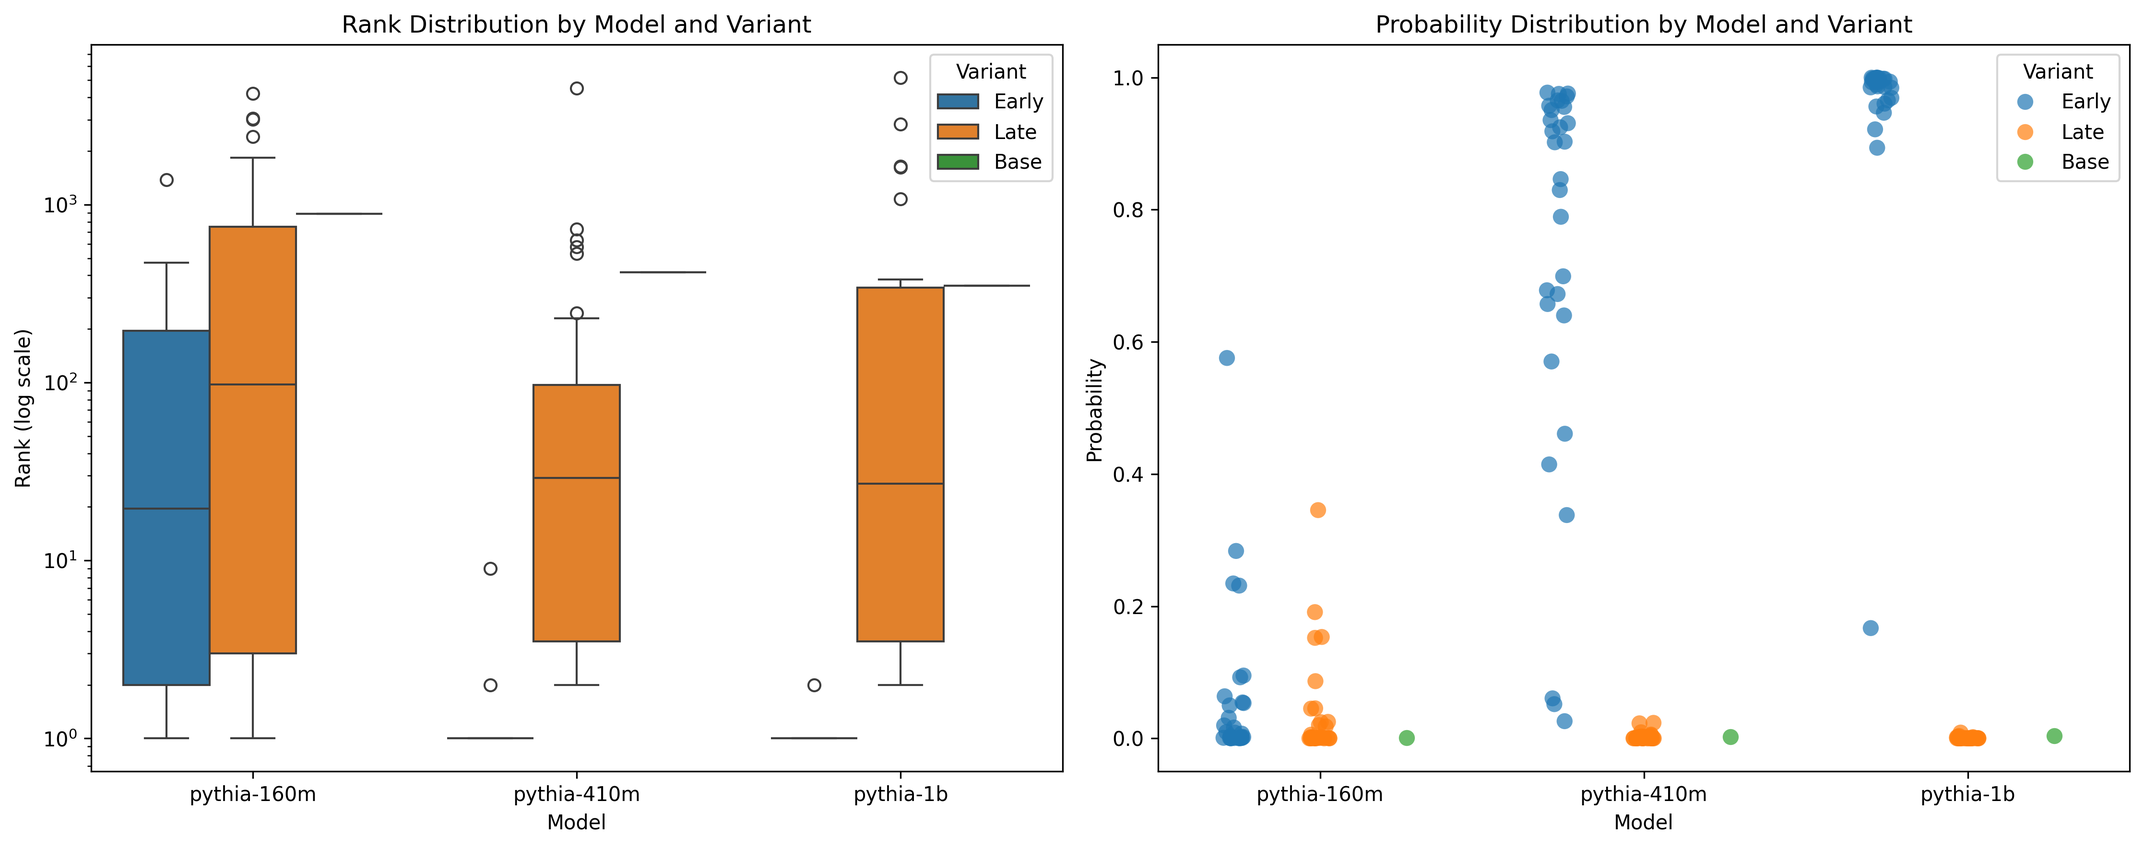
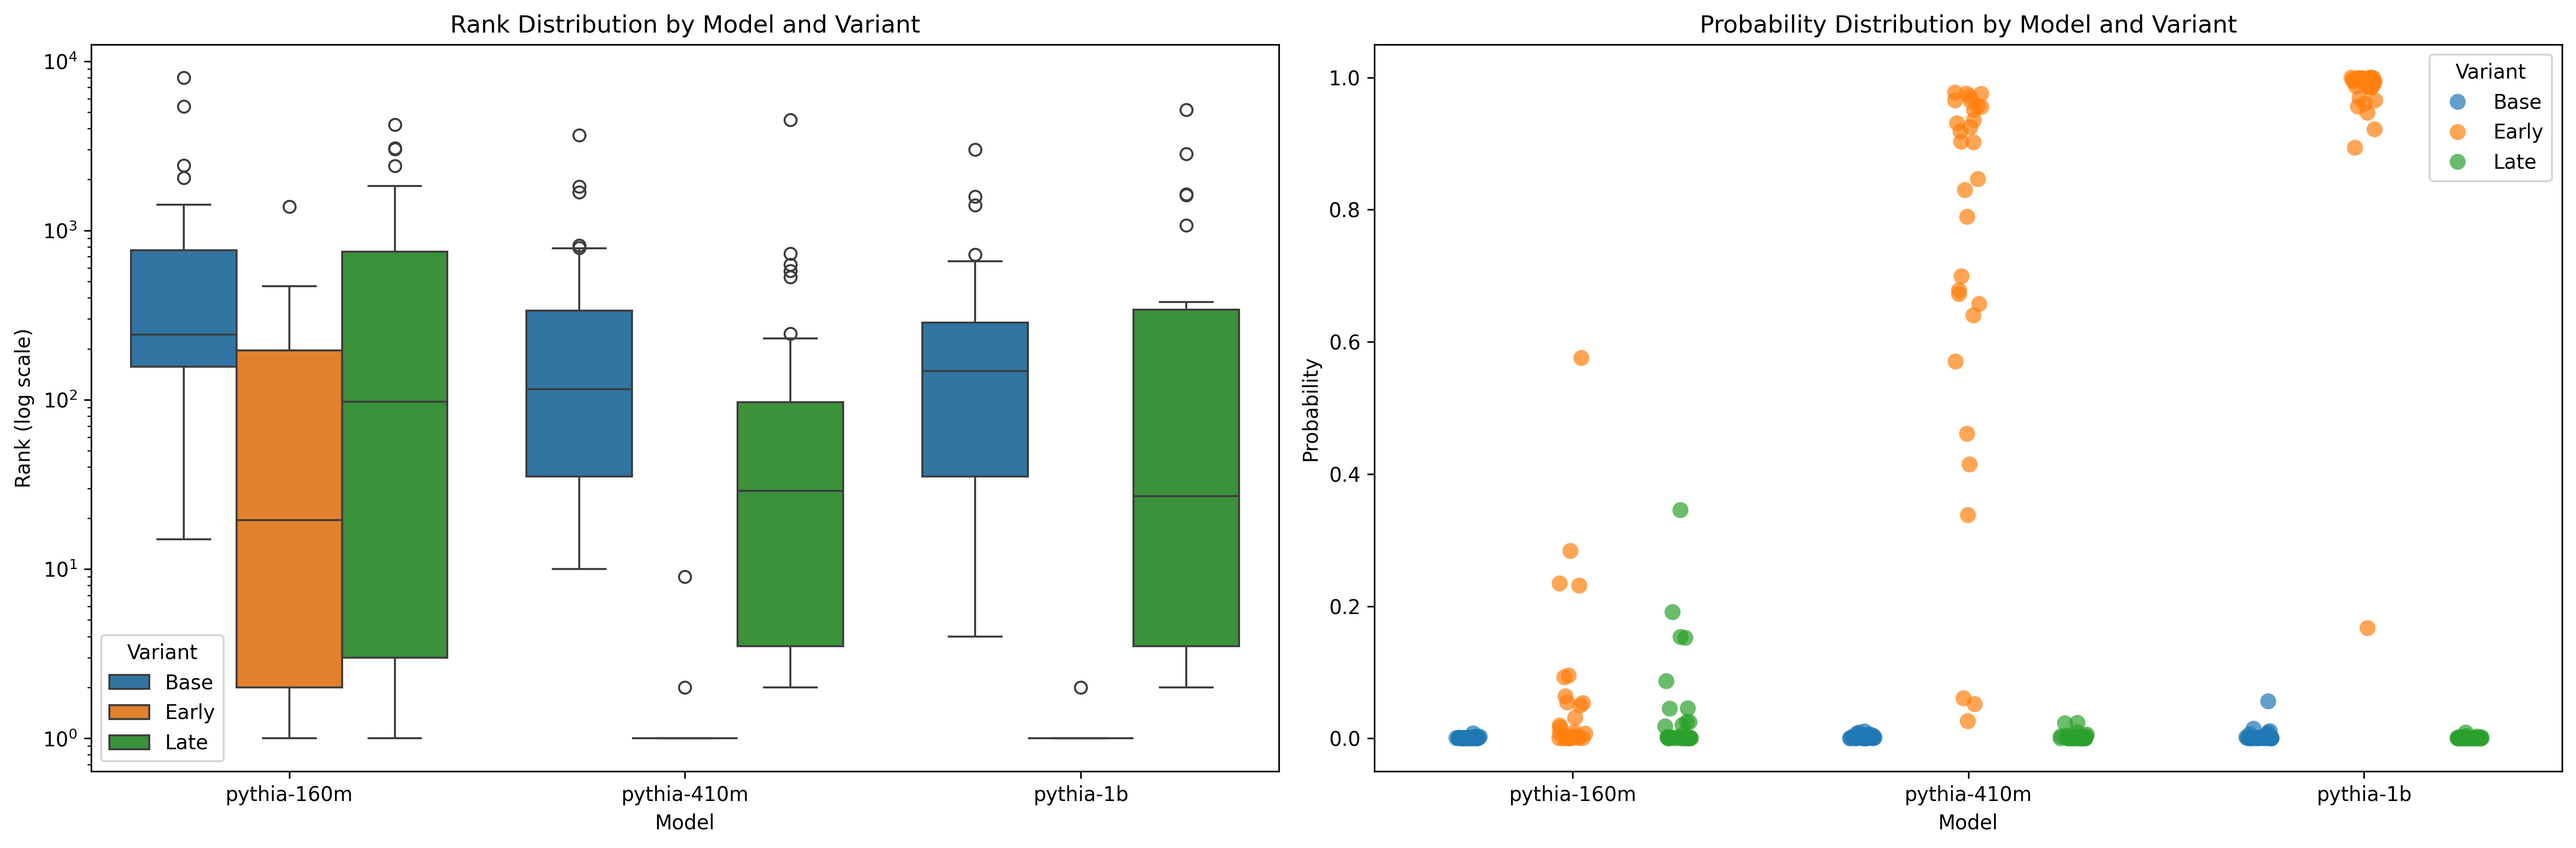
fixed early vs late vis

diff --git a/evaluation_late_vs_early/experiment_results/analysis/visualize_results.py b/evaluation_late_vs_early/experiment_results/analysis/visualize_results.py
@@ -11,40 +11,34 @@ def prepare_data(data):
     rank_data = []
     prob_data = []
     
-    for model, details in data['detailed_comparison'].items():
-        for item in details:
-            # Rank data
-            rank_data.extend([
-                {'Model': model, 'Variant': 'Early', 'Rank': item['early']['rank']},
-                {'Model': model, 'Variant': 'Late', 'Rank': item['late']['rank']}
-            ])
-            
-            # Probability data  
-            prob_data.extend([
-                {'Model': model, 'Variant': 'Early', 'Probability': item['early']['probability']},
-                {'Model': model, 'Variant': 'Late', 'Probability': item['late']['probability']}
-            ])
-    
-    # Add base variant data from summary
-    for model, summary in data['summary'].items():
-        if 'base' in summary:
-            rank_data.append({'Model': model, 'Variant': 'Base', 'Rank': summary['base']['avg_rank']})
-            prob_data.append({'Model': model, 'Variant': 'Base', 'Probability': summary['base']['avg_prob']})
+    for model, variants in data['results'].items():
+        for variant, variant_data in variants.items():
+            for result in variant_data['individual_results']:
+                rank_data.append({
+                    'Model': model, 
+                    'Variant': variant.capitalize(), 
+                    'Rank': result['rank']
+                })
+                prob_data.append({
+                    'Model': model, 
+                    'Variant': variant.capitalize(), 
+                    'Probability': result['probability']
+                })
     
     return pd.DataFrame(rank_data), pd.DataFrame(prob_data)
 
 def create_visualizations(rank_df, prob_df):
-    fig, (ax1, ax2) = plt.subplots(1, 2, figsize=(15, 6))
+    fig, (ax1, ax2) = plt.subplots(1, 2, figsize=(18, 6))
     
     # Box plot for ranks
-    sns.boxplot(data=rank_df, x='Model', y='Rank', hue='Variant', ax=ax1)
+    sns.boxplot(data=rank_df, x='Model', y='Rank', hue='Variant', ax=ax1, dodge=0.8)
     ax1.set_yscale('log')
     ax1.set_title('Rank Distribution by Model and Variant')
     ax1.set_ylabel('Rank (log scale)')
     
     # Strip plot for probabilities
     sns.stripplot(data=prob_df, x='Model', y='Probability', hue='Variant', 
-                  dodge=True, size=8, alpha=0.7, ax=ax2)
+                  dodge=0.8, size=8, alpha=0.7, ax=ax2)
     ax2.set_title('Probability Distribution by Model and Variant')
     ax2.set_ylabel('Probability')
     
@@ -53,6 +47,6 @@ def create_visualizations(rank_df, prob_df):
     plt.show()
 
 if __name__ == "__main__":
-    data = load_data('../comparison_report_20250907_095137.json')
+    data = load_data('../experiment_results_20250907_095137.json')
     rank_df, prob_df = prepare_data(data)
     create_visualizations(rank_df, prob_df)
